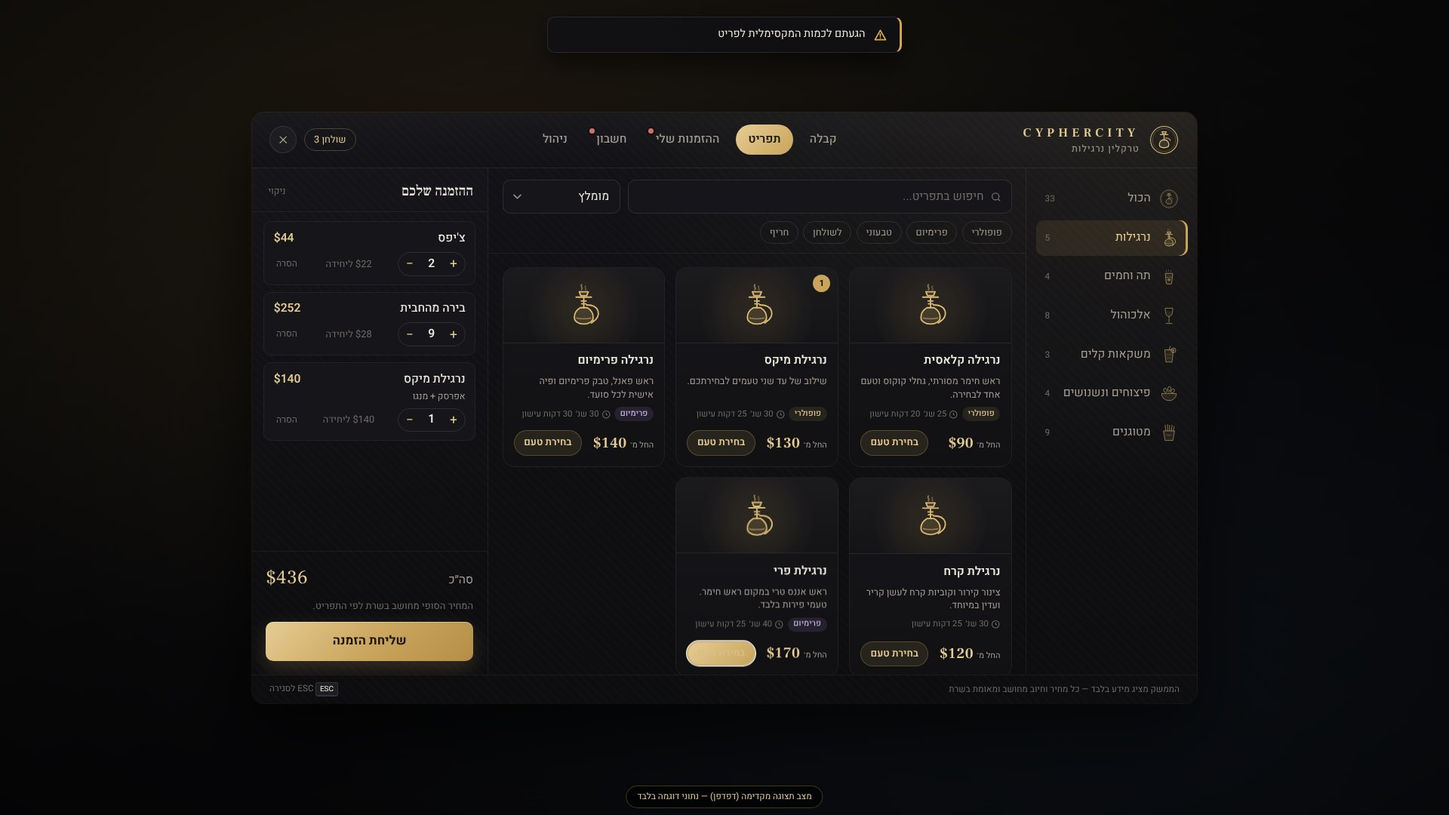
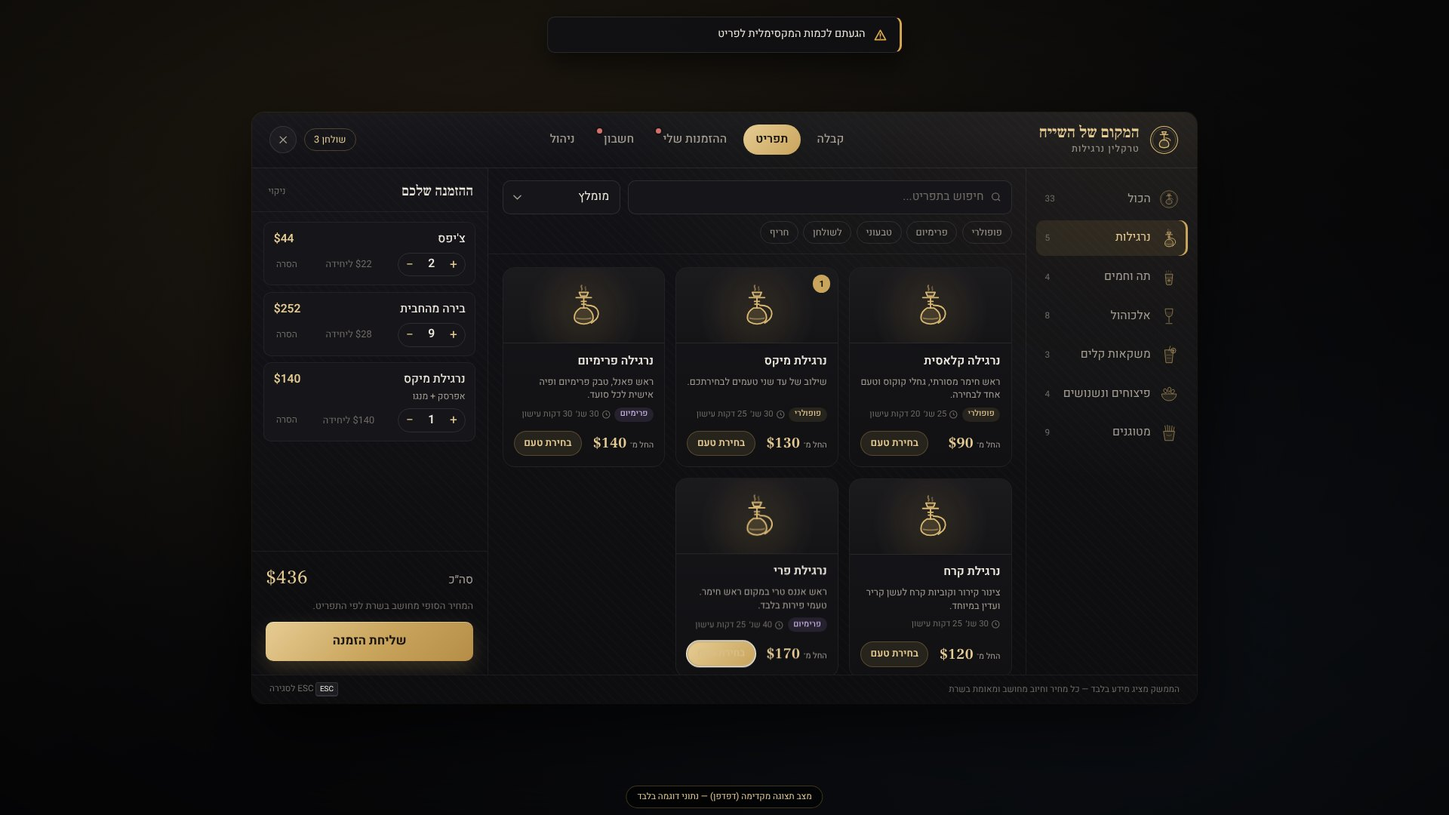
Rename the lounge to "המקום של השייח" (The Sheikh's Place)
- Business name and subtitle come from config.lua (Config.Business.name /
  subtitle) and are shown in the menu header, receipt, window title,
  ox_lib notification title and Discord log username
- Map blip label "The Sheikh's Place" (GTA map text cannot render Hebrew)
- NUI header uses a Hebrew-friendly title style instead of the spaced Latin
  logotype; UI test asserts the configured name is displayed
- READMEs and screenshots updated; technical resource name, events, ACE
  permissions and convars keep the cyphercity-hookah prefix

Claude-Session: https://claude.ai/code/session_01RPJosC7abj2qYpxyJjMoKh

diff --git a/cyphercity-hookah/tests/nui/mock-data.js b/cyphercity-hookah/tests/nui/mock-data.js
@@ -1,2 +1,2 @@
 // Generated by tests/lua/export_catalog.lua from config.lua — sample data for the browser preview.
-window.CCH_MOCK_DATA = {"business":{"hostess":"מאיה","label":"טרקלין הנרגילות של סייפר סיטי","name":"CypherCity Hookah Lounge"},"catalog":{"categories":[{"icon":"hookah.svg","id":"hookah","label":"נרגילות"},{"icon":"tea.svg","id":"tea","label":"תה וחמים"},{"icon":"wine.svg","id":"alcohol","label":"אלכוהול"},{"icon":"lemonade.svg","id":"soft","label":"משקאות קלים"},{"icon":"nuts.svg","id":"snacks","label":"פיצוחים ונשנושים"},{"icon":"fries.svg","id":"fried","label":"מטוגנים"}],"flavors":[{"color":"#b5473a","id":"double_apple","label":"תפוח כפול","price":0},{"color":"#6d4a9c","id":"grape_mint","label":"ענבים ונענע","price":0},{"color":"#c8b843","id":"lemon_mint","label":"לימון נענע","price":0},{"color":"#cf4f6b","id":"watermelon","label":"אבטיח","price":0},{"color":"#4a5f9c","id":"blueberry","label":"אוכמניות","price":5},{"color":"#57a99a","id":"gum_mint","label":"מסטיק נענע","price":5},{"color":"#e0915a","id":"peach","label":"אפרסק","price":5},{"color":"#e3a93b","id":"mango","label":"מנגו","price":5},{"color":"#c2793a","id":"passion","label":"פסיפלורה","price":8},{"color":"#d8c25a","id":"pineapple","label":"אננס","price":8},{"color":"#8c3f5f","id":"forest","label":"פירות יער","price":8},{"color":"#6b4a3a","id":"cola_ice","label":"קולה קרח","price":10}],"products":[{"category":"hookah","description":"ראש חימר מסורתי, גחלי קוקוס וטעם אחד לבחירה.","duration":1200,"id":"hookah_classic","image":"hookah.svg","kind":"hookah","label":"נרגילה קלאסית","maxFlavors":1,"maxQty":2,"prepTime":25,"price":90,"tags":["popular"]},{"category":"hookah","description":"ראש פאנל, טבק פרימיום ופיה אישית לכל סועד.","duration":1800,"id":"hookah_premium","image":"hookah.svg","kind":"hookah","label":"נרגילה פרימיום","maxFlavors":1,"maxQty":2,"prepTime":30,"price":140,"tags":["premium"]},{"category":"hookah","description":"צינור קירור וקוביות קרח לעשן קריר ועדין במיוחד.","duration":1500,"id":"hookah_ice","image":"hookah.svg","kind":"hookah","label":"נרגילת קרח","maxFlavors":1,"maxQty":2,"prepTime":30,"price":120,"tags":{}},{"category":"hookah","description":"שילוב של עד שני טעמים לבחירתכם.","duration":1500,"id":"hookah_mix","image":"hookah.svg","kind":"hookah","label":"נרגילת מיקס","maxFlavors":2,"maxQty":2,"prepTime":30,"price":130,"tags":["popular"]},{"allowedFlavors":["mango","passion","peach","pineapple","watermelon"],"category":"hookah","description":"ראש אננס טרי במקום ראש חימר. טעמי פירות בלבד.","duration":1500,"id":"hookah_fruit","image":"hookah.svg","kind":"hookah","label":"נרגילת פרי","maxFlavors":1,"maxQty":2,"prepTime":40,"price":170,"tags":["premium"]},{"category":"tea","description":"תה שחור עם נענע טרייה, מוגש בכוס זכוכית.","id":"tea_nana","image":"tea.svg","kind":"item","label":"תה נענע","maxQty":10,"prepTime":10,"price":18,"tags":["popular","vegan"]},{"category":"tea","description":"מרווה, לואיזה ולימונית מגינת הבית.","id":"tea_herbal","image":"tea.svg","kind":"item","label":"תה צמחים","maxQty":10,"prepTime":10,"price":20,"tags":["vegan"]},{"category":"tea","description":"קנקן גדול לכל השולחן עם צלוחית סוכר וענפי נענע.","id":"tea_kettle","image":"kettle.svg","kind":"item","label":"קנקן תה לשולחן","maxQty":3,"prepTime":15,"price":45,"tags":["share","vegan"]},{"category":"tea","description":"קפה טורקי עם הל, מבושל על פלטה.","id":"coffee_black","image":"coffee.svg","kind":"item","label":"קפה שחור","maxQty":10,"prepTime":8,"price":15,"tags":["vegan"]},{"category":"alcohol","description":"חצי ליטר לאגר קר.","id":"beer_draft","image":"beer.svg","kind":"item","label":"בירה מהחבית","maxQty":10,"prepTime":5,"price":28,"tags":["popular"]},{"category":"alcohol","description":"בקבוק 330 מ\"ל.","id":"beer_bottle","image":"beer.svg","kind":"item","label":"בירה בבקבוק","maxQty":10,"prepTime":3,"price":24,"tags":{}},{"category":"alcohol","description":"ערק, מיץ אשכוליות סחוט וקרח.","id":"arak_grapefruit","image":"cocktail.svg","kind":"item","label":"ערק אשכוליות","maxQty":10,"prepTime":6,"price":35,"tags":["popular"]},{"category":"alcohol","description":"כוס וויסקי בלנד, נקי או עם קרח.","id":"whiskey","image":"whiskey.svg","kind":"item","label":"וויסקי","maxQty":10,"prepTime":4,"price":48,"tags":["premium"]},{"category":"alcohol","description":"וודקה עם משקה אנרגיה וקרח.","id":"vodka_energy","image":"cocktail.svg","kind":"item","label":"וודקה אנרגיה","maxQty":10,"prepTime":5,"price":45,"tags":{}},{"category":"alcohol","description":"יין אדום יבש מהבית.","id":"wine_red","image":"wine.svg","kind":"item","label":"כוס יין אדום","maxQty":10,"prepTime":3,"price":38,"tags":{}},{"category":"alcohol","description":"ג'ין, פסיפלורה, בזיליקום ולימון.","id":"house_cocktail","image":"cocktail.svg","kind":"item","label":"קוקטייל הבית","maxQty":10,"prepTime":8,"price":52,"tags":["premium"]},{"category":"alcohol","description":"שישה צ'ייסרים לשולחן.","id":"shots_tray","image":"shot.svg","kind":"item","label":"מגש צ'ייסרים","maxQty":3,"prepTime":5,"price":75,"tags":["share"]},{"category":"soft","description":"לימונדה עם נענע וקרח גרוס.","id":"lemonana","image":"lemonade.svg","kind":"item","label":"לימונענע גרוס","maxQty":10,"prepTime":5,"price":18,"tags":["popular","vegan"]},{"category":"soft","description":"פחית 330 מ\"ל.","id":"cola","image":"soda.svg","kind":"item","label":"קולה","maxQty":10,"prepTime":2,"price":12,"tags":["vegan"]},{"category":"soft","description":"בקבוק 500 מ\"ל.","id":"water","image":"water.svg","kind":"item","label":"מים מינרליים","maxQty":10,"prepTime":1,"price":8,"tags":["vegan"]},{"category":"snacks","description":"גרעינים, בוטנים, פיסטוקים ושקדים קלויים.","id":"nuts_mix","image":"nuts.svg","kind":"item","label":"מגש פיצוחים","maxQty":10,"prepTime":4,"price":30,"tags":["share","vegan","popular"]},{"category":"snacks","description":"קערת פיסטוקים קלויים ומלוחים.","id":"pistachio","image":"nuts.svg","kind":"item","label":"פיסטוקים","maxQty":10,"prepTime":3,"price":32,"tags":["vegan"]},{"category":"snacks","description":"תרמילי סויה מאודים עם מלח גס.","id":"edamame","image":"edamame.svg","kind":"item","label":"אדממה","maxQty":10,"prepTime":8,"price":28,"tags":["vegan"]},{"category":"snacks","description":"אדממה מוקפצת בשום, צ'ילי ושמן שומשום.","id":"edamame_spicy","image":"edamame.svg","kind":"item","label":"אדממה חריפה","maxQty":10,"prepTime":10,"price":30,"tags":["vegan","spicy"]},{"category":"fried","description":"צ'יפס פריך עם מלח ים ואיולי.","id":"fries","image":"fries.svg","kind":"item","label":"צ'יפס","maxQty":10,"prepTime":12,"price":22,"tags":["popular","vegan"]},{"category":"fried","description":"בטטה פריכה עם צ'ילי מתוק.","id":"fries_sweet","image":"fries.svg","kind":"item","label":"צ'יפס בטטה","maxQty":10,"prepTime":12,"price":28,"tags":["vegan"]},{"category":"fried","description":"טבעות בצל בבלילת בירה.","id":"onion_rings","image":"onion_rings.svg","kind":"item","label":"טבעות בצל","maxQty":10,"prepTime":12,"price":26,"tags":{}},{"category":"fried","description":"נתחי חזה עוף בציפוי פריך עם רוטב חרדל-דבש.","id":"schnitzelonim","image":"schnitzel.svg","kind":"item","label":"שניצלונים","maxQty":10,"prepTime":15,"price":38,"tags":["popular"]},{"category":"fried","description":"כנפיים פריכות ברוטב ברביקיו מעושן.","id":"wings_bbq","image":"wings.svg","kind":"item","label":"כנפיים ברביקיו","maxQty":10,"prepTime":18,"price":45,"tags":{}},{"category":"fried","description":"כנפיים חריפות ברוטב באפלו ובצד רוטב שמנת.","id":"wings_buffalo","image":"wings.svg","kind":"item","label":"כנפיים באפלו","maxQty":10,"prepTime":18,"price":45,"tags":["spicy"]},{"category":"fried","description":"מוצרלה בציפוי פריך עם רוטב עגבניות.","id":"cheese_sticks","image":"cheese_sticks.svg","kind":"item","label":"מקלות גבינה","maxQty":10,"prepTime":12,"price":32,"tags":{}},{"category":"fried","description":"פרחי כרובית עם טחינה ולימון.","id":"cauliflower","image":"cauliflower.svg","kind":"item","label":"כרובית מטוגנת","maxQty":10,"prepTime":12,"price":28,"tags":["vegan"]},{"category":"fried","description":"צ'יפס, טבעות בצל, שניצלונים ומקלות גבינה — לכל השולחן.","id":"fried_platter","image":"platter.svg","kind":"item","label":"מגש מטוגנים לשולחן","maxQty":3,"prepTime":20,"price":95,"tags":["share","popular"]}]},"currency":{"position":"before","symbol":"$"},"locale":"he","messages":{"insufficient_funds":"אין מספיק כסף במזומן.","order_placed":"ההזמנה #%ID% התקבלה (%TOTAL%).","payment_success":"שולם %TOTAL%. תודה רבה!","table_assigned":"קיבלת את %TABLE%. השולחן שמור לך ל-3:00 — גש ושב."},"settings":{"accounts":[{"id":"cash","label":"מזומן"},{"id":"bank","label":"בנק"}],"allowTableBill":true,"allowWithoutTable":false,"coalRefresh":{"enabled":true,"extendSeconds":600,"maxRefreshes":3,"price":15},"flavorChange":{"enabled":true,"price":20,"refreshDuration":true},"framework":"qbcore","maxItemsPerOrder":25,"maxPartySize":6,"maxQtyPerLine":10,"moneyMode":"money","ordersMode":"hybrid","servicePercent":0,"stockEnabled":false,"tableBillPayer":"owner","timing":"on_bill","tips":[0,10,12,15]},"tables":[{"capacity":4,"id":1,"label":"שולחן 1","members":0,"occupiedSeats":[false,false,false,false],"seated":0,"status":"free","vip":false},{"capacity":4,"id":2,"label":"שולחן 2","members":0,"occupiedSeats":[false,false,false,false],"seated":0,"status":"free","vip":false},{"capacity":4,"id":3,"label":"שולחן 3","members":0,"occupiedSeats":[false,false,false,false],"seated":0,"status":"free","vip":false},{"capacity":4,"id":4,"label":"שולחן 4","members":0,"occupiedSeats":[false,false,false,false],"seated":0,"status":"free","vip":false},{"capacity":4,"id":5,"label":"שולחן 5","members":0,"occupiedSeats":[false,false,false,false],"seated":0,"status":"free","vip":false},{"capacity":6,"id":6,"label":"שולחן VIP","members":0,"occupiedSeats":[false,false,false,false,false,false],"seated":0,"status":"free","vip":true}]};
+window.CCH_MOCK_DATA = {"business":{"hostess":"מאיה","name":"המקום של השייח","subtitle":"טרקלין נרגילות"},"catalog":{"categories":[{"icon":"hookah.svg","id":"hookah","label":"נרגילות"},{"icon":"tea.svg","id":"tea","label":"תה וחמים"},{"icon":"wine.svg","id":"alcohol","label":"אלכוהול"},{"icon":"lemonade.svg","id":"soft","label":"משקאות קלים"},{"icon":"nuts.svg","id":"snacks","label":"פיצוחים ונשנושים"},{"icon":"fries.svg","id":"fried","label":"מטוגנים"}],"flavors":[{"color":"#b5473a","id":"double_apple","label":"תפוח כפול","price":0},{"color":"#6d4a9c","id":"grape_mint","label":"ענבים ונענע","price":0},{"color":"#c8b843","id":"lemon_mint","label":"לימון נענע","price":0},{"color":"#cf4f6b","id":"watermelon","label":"אבטיח","price":0},{"color":"#4a5f9c","id":"blueberry","label":"אוכמניות","price":5},{"color":"#57a99a","id":"gum_mint","label":"מסטיק נענע","price":5},{"color":"#e0915a","id":"peach","label":"אפרסק","price":5},{"color":"#e3a93b","id":"mango","label":"מנגו","price":5},{"color":"#c2793a","id":"passion","label":"פסיפלורה","price":8},{"color":"#d8c25a","id":"pineapple","label":"אננס","price":8},{"color":"#8c3f5f","id":"forest","label":"פירות יער","price":8},{"color":"#6b4a3a","id":"cola_ice","label":"קולה קרח","price":10}],"products":[{"category":"hookah","description":"ראש חימר מסורתי, גחלי קוקוס וטעם אחד לבחירה.","duration":1200,"id":"hookah_classic","image":"hookah.svg","kind":"hookah","label":"נרגילה קלאסית","maxFlavors":1,"maxQty":2,"prepTime":25,"price":90,"tags":["popular"]},{"category":"hookah","description":"ראש פאנל, טבק פרימיום ופיה אישית לכל סועד.","duration":1800,"id":"hookah_premium","image":"hookah.svg","kind":"hookah","label":"נרגילה פרימיום","maxFlavors":1,"maxQty":2,"prepTime":30,"price":140,"tags":["premium"]},{"category":"hookah","description":"צינור קירור וקוביות קרח לעשן קריר ועדין במיוחד.","duration":1500,"id":"hookah_ice","image":"hookah.svg","kind":"hookah","label":"נרגילת קרח","maxFlavors":1,"maxQty":2,"prepTime":30,"price":120,"tags":{}},{"category":"hookah","description":"שילוב של עד שני טעמים לבחירתכם.","duration":1500,"id":"hookah_mix","image":"hookah.svg","kind":"hookah","label":"נרגילת מיקס","maxFlavors":2,"maxQty":2,"prepTime":30,"price":130,"tags":["popular"]},{"allowedFlavors":["mango","passion","peach","pineapple","watermelon"],"category":"hookah","description":"ראש אננס טרי במקום ראש חימר. טעמי פירות בלבד.","duration":1500,"id":"hookah_fruit","image":"hookah.svg","kind":"hookah","label":"נרגילת פרי","maxFlavors":1,"maxQty":2,"prepTime":40,"price":170,"tags":["premium"]},{"category":"tea","description":"תה שחור עם נענע טרייה, מוגש בכוס זכוכית.","id":"tea_nana","image":"tea.svg","kind":"item","label":"תה נענע","maxQty":10,"prepTime":10,"price":18,"tags":["popular","vegan"]},{"category":"tea","description":"מרווה, לואיזה ולימונית מגינת הבית.","id":"tea_herbal","image":"tea.svg","kind":"item","label":"תה צמחים","maxQty":10,"prepTime":10,"price":20,"tags":["vegan"]},{"category":"tea","description":"קנקן גדול לכל השולחן עם צלוחית סוכר וענפי נענע.","id":"tea_kettle","image":"kettle.svg","kind":"item","label":"קנקן תה לשולחן","maxQty":3,"prepTime":15,"price":45,"tags":["share","vegan"]},{"category":"tea","description":"קפה טורקי עם הל, מבושל על פלטה.","id":"coffee_black","image":"coffee.svg","kind":"item","label":"קפה שחור","maxQty":10,"prepTime":8,"price":15,"tags":["vegan"]},{"category":"alcohol","description":"חצי ליטר לאגר קר.","id":"beer_draft","image":"beer.svg","kind":"item","label":"בירה מהחבית","maxQty":10,"prepTime":5,"price":28,"tags":["popular"]},{"category":"alcohol","description":"בקבוק 330 מ\"ל.","id":"beer_bottle","image":"beer.svg","kind":"item","label":"בירה בבקבוק","maxQty":10,"prepTime":3,"price":24,"tags":{}},{"category":"alcohol","description":"ערק, מיץ אשכוליות סחוט וקרח.","id":"arak_grapefruit","image":"cocktail.svg","kind":"item","label":"ערק אשכוליות","maxQty":10,"prepTime":6,"price":35,"tags":["popular"]},{"category":"alcohol","description":"כוס וויסקי בלנד, נקי או עם קרח.","id":"whiskey","image":"whiskey.svg","kind":"item","label":"וויסקי","maxQty":10,"prepTime":4,"price":48,"tags":["premium"]},{"category":"alcohol","description":"וודקה עם משקה אנרגיה וקרח.","id":"vodka_energy","image":"cocktail.svg","kind":"item","label":"וודקה אנרגיה","maxQty":10,"prepTime":5,"price":45,"tags":{}},{"category":"alcohol","description":"יין אדום יבש מהבית.","id":"wine_red","image":"wine.svg","kind":"item","label":"כוס יין אדום","maxQty":10,"prepTime":3,"price":38,"tags":{}},{"category":"alcohol","description":"ג'ין, פסיפלורה, בזיליקום ולימון.","id":"house_cocktail","image":"cocktail.svg","kind":"item","label":"קוקטייל הבית","maxQty":10,"prepTime":8,"price":52,"tags":["premium"]},{"category":"alcohol","description":"שישה צ'ייסרים לשולחן.","id":"shots_tray","image":"shot.svg","kind":"item","label":"מגש צ'ייסרים","maxQty":3,"prepTime":5,"price":75,"tags":["share"]},{"category":"soft","description":"לימונדה עם נענע וקרח גרוס.","id":"lemonana","image":"lemonade.svg","kind":"item","label":"לימונענע גרוס","maxQty":10,"prepTime":5,"price":18,"tags":["popular","vegan"]},{"category":"soft","description":"פחית 330 מ\"ל.","id":"cola","image":"soda.svg","kind":"item","label":"קולה","maxQty":10,"prepTime":2,"price":12,"tags":["vegan"]},{"category":"soft","description":"בקבוק 500 מ\"ל.","id":"water","image":"water.svg","kind":"item","label":"מים מינרליים","maxQty":10,"prepTime":1,"price":8,"tags":["vegan"]},{"category":"snacks","description":"גרעינים, בוטנים, פיסטוקים ושקדים קלויים.","id":"nuts_mix","image":"nuts.svg","kind":"item","label":"מגש פיצוחים","maxQty":10,"prepTime":4,"price":30,"tags":["share","vegan","popular"]},{"category":"snacks","description":"קערת פיסטוקים קלויים ומלוחים.","id":"pistachio","image":"nuts.svg","kind":"item","label":"פיסטוקים","maxQty":10,"prepTime":3,"price":32,"tags":["vegan"]},{"category":"snacks","description":"תרמילי סויה מאודים עם מלח גס.","id":"edamame","image":"edamame.svg","kind":"item","label":"אדממה","maxQty":10,"prepTime":8,"price":28,"tags":["vegan"]},{"category":"snacks","description":"אדממה מוקפצת בשום, צ'ילי ושמן שומשום.","id":"edamame_spicy","image":"edamame.svg","kind":"item","label":"אדממה חריפה","maxQty":10,"prepTime":10,"price":30,"tags":["vegan","spicy"]},{"category":"fried","description":"צ'יפס פריך עם מלח ים ואיולי.","id":"fries","image":"fries.svg","kind":"item","label":"צ'יפס","maxQty":10,"prepTime":12,"price":22,"tags":["popular","vegan"]},{"category":"fried","description":"בטטה פריכה עם צ'ילי מתוק.","id":"fries_sweet","image":"fries.svg","kind":"item","label":"צ'יפס בטטה","maxQty":10,"prepTime":12,"price":28,"tags":["vegan"]},{"category":"fried","description":"טבעות בצל בבלילת בירה.","id":"onion_rings","image":"onion_rings.svg","kind":"item","label":"טבעות בצל","maxQty":10,"prepTime":12,"price":26,"tags":{}},{"category":"fried","description":"נתחי חזה עוף בציפוי פריך עם רוטב חרדל-דבש.","id":"schnitzelonim","image":"schnitzel.svg","kind":"item","label":"שניצלונים","maxQty":10,"prepTime":15,"price":38,"tags":["popular"]},{"category":"fried","description":"כנפיים פריכות ברוטב ברביקיו מעושן.","id":"wings_bbq","image":"wings.svg","kind":"item","label":"כנפיים ברביקיו","maxQty":10,"prepTime":18,"price":45,"tags":{}},{"category":"fried","description":"כנפיים חריפות ברוטב באפלו ובצד רוטב שמנת.","id":"wings_buffalo","image":"wings.svg","kind":"item","label":"כנפיים באפלו","maxQty":10,"prepTime":18,"price":45,"tags":["spicy"]},{"category":"fried","description":"מוצרלה בציפוי פריך עם רוטב עגבניות.","id":"cheese_sticks","image":"cheese_sticks.svg","kind":"item","label":"מקלות גבינה","maxQty":10,"prepTime":12,"price":32,"tags":{}},{"category":"fried","description":"פרחי כרובית עם טחינה ולימון.","id":"cauliflower","image":"cauliflower.svg","kind":"item","label":"כרובית מטוגנת","maxQty":10,"prepTime":12,"price":28,"tags":["vegan"]},{"category":"fried","description":"צ'יפס, טבעות בצל, שניצלונים ומקלות גבינה — לכל השולחן.","id":"fried_platter","image":"platter.svg","kind":"item","label":"מגש מטוגנים לשולחן","maxQty":3,"prepTime":20,"price":95,"tags":["share","popular"]}]},"currency":{"position":"before","symbol":"$"},"locale":"he","messages":{"insufficient_funds":"אין מספיק כסף במזומן.","order_placed":"ההזמנה #%ID% התקבלה (%TOTAL%).","payment_success":"שולם %TOTAL%. תודה רבה!","table_assigned":"קיבלת את %TABLE%. השולחן שמור לך ל-3:00 — גש ושב."},"settings":{"accounts":[{"id":"cash","label":"מזומן"},{"id":"bank","label":"בנק"}],"allowTableBill":true,"allowWithoutTable":false,"coalRefresh":{"enabled":true,"extendSeconds":600,"maxRefreshes":3,"price":15},"flavorChange":{"enabled":true,"price":20,"refreshDuration":true},"framework":"qbcore","maxItemsPerOrder":25,"maxPartySize":6,"maxQtyPerLine":10,"moneyMode":"money","ordersMode":"hybrid","servicePercent":0,"stockEnabled":false,"tableBillPayer":"owner","timing":"on_bill","tips":[0,10,12,15]},"tables":[{"capacity":4,"id":1,"label":"שולחן 1","members":0,"occupiedSeats":[false,false,false,false],"seated":0,"status":"free","vip":false},{"capacity":4,"id":2,"label":"שולחן 2","members":0,"occupiedSeats":[false,false,false,false],"seated":0,"status":"free","vip":false},{"capacity":4,"id":3,"label":"שולחן 3","members":0,"occupiedSeats":[false,false,false,false],"seated":0,"status":"free","vip":false},{"capacity":4,"id":4,"label":"שולחן 4","members":0,"occupiedSeats":[false,false,false,false],"seated":0,"status":"free","vip":false},{"capacity":4,"id":5,"label":"שולחן 5","members":0,"occupiedSeats":[false,false,false,false],"seated":0,"status":"free","vip":false},{"capacity":6,"id":6,"label":"שולחן VIP","members":0,"occupiedSeats":[false,false,false,false,false,false],"seated":0,"status":"free","vip":true}]};

diff --git a/cyphercity-hookah/html/style.css b/cyphercity-hookah/html/style.css
@@ -1,4 +1,4 @@
-/* CypherCity Hookah Lounge — NUI
+/* Hookah lounge NUI
    Dark lounge palette: black, graphite and soft gold. RTL first. Local fonts only. */
 
 @font-face {
@@ -124,13 +124,12 @@ svg { display: block; }
 }
 .brand { display: flex; align-items: center; gap: 0.8rem; min-width: 12rem; }
 .brand-logo { width: 2.6rem; height: 2.6rem; }
-.brand-latin {
+.brand-title {
   font-family: var(--font-display);
-  letter-spacing: 0.32em;
-  font-size: 1.05rem;
+  font-size: 1.35rem;
   font-weight: 600;
+  line-height: 1.15;
   color: var(--gold-2);
-  direction: ltr;
   text-align: start;
 }
 .brand-sub { font-size: 0.8rem; color: var(--muted); letter-spacing: 0.08em; }
@@ -590,7 +589,7 @@ select.input option { background: var(--panel-2); color: var(--text); }
 }
 .receipt-head { text-align: center; margin-bottom: 1rem; }
 .receipt-head img { width: 2.6rem; margin: 0 auto 0.4rem; }
-.receipt-head .r-title { font-family: var(--font-display); letter-spacing: 0.28em; color: var(--gold-2); direction: ltr; }
+.receipt-head .r-title { font-family: var(--font-display); font-size: 1.25rem; font-weight: 600; color: var(--gold-2); }
 .receipt-group { margin: 0.9rem 0; }
 .receipt-group .rg-head { font-size: 0.78rem; color: var(--faint); margin-bottom: 0.35rem; display: flex; justify-content: space-between; }
 .receipt-line { display: flex; align-items: baseline; gap: 0.4rem; font-size: 0.92rem; padding: 0.15rem 0; }

diff --git a/cyphercity-hookah/html/app.js b/cyphercity-hookah/html/app.js
@@ -1,4 +1,4 @@
-/* CypherCity Hookah Lounge — NUI application.
+/* Hookah lounge NUI application (business name and subtitle come from config.lua).
    Vanilla JS, no external libraries. The UI only displays data and sends ids and
    quantities; every price, permission and payment is decided by the server. */
 (function () {
@@ -323,6 +323,10 @@
     S.party = Math.min(2, S.settings.maxPartySize || 6);
     document.querySelectorAll('[data-t]').forEach((el) => { el.textContent = t(el.dataset.t); });
     document.querySelectorAll('[data-t-title]').forEach((el) => { el.title = t(el.dataset.tTitle); });
+    const business = data.business || {};
+    $('#brandTitle').textContent = business.name || '';
+    if (business.subtitle) $('#brandSub').textContent = business.subtitle;
+    if (business.name) document.title = business.name;
     if (S.open) render();
   }
 
@@ -860,7 +864,7 @@
         <div class="receipt">
           <div class="receipt-head">
             <img src="${ICON_PATH}logo.svg" alt="">
-            <div class="r-title">CYPHERCITY</div>
+            <div class="r-title">${esc((S.init && S.init.business && S.init.business.name) || '')}</div>
             <div class="faint small">${esc(bill.tableLabel || '')}</div>
           </div>
           ${groups}

diff --git a/cyphercity-hookah/html/index.html b/cyphercity-hookah/html/index.html
@@ -3,7 +3,7 @@
 <head>
   <meta charset="utf-8">
   <meta name="viewport" content="width=device-width, initial-scale=1">
-  <title>CypherCity Hookah Lounge</title>
+  <title>המקום של השייח</title>
   <link rel="stylesheet" href="style.css">
 </head>
 <body>
@@ -14,8 +14,8 @@
         <div class="brand">
           <img class="brand-logo" src="assets/icons/logo.svg" alt="">
           <div class="brand-text">
-            <div class="brand-latin" id="brandTitle">CYPHERCITY</div>
-            <div class="brand-sub" data-t="brand_sub"></div>
+            <div class="brand-title" id="brandTitle"></div>
+            <div class="brand-sub" id="brandSub" data-t="brand_sub"></div>
           </div>
         </div>
         <nav class="tabs" id="tabs" role="tablist"></nav>

diff --git a/cyphercity-hookah/tests/nui/nui.test.js b/cyphercity-hookah/tests/nui/nui.test.js
@@ -65,6 +65,8 @@ const numberIn = (text) => Number(String(text).replace(/[^\d]/g, ''));
     assert.strictEqual(await page.locator('.category').count(), DATA.catalog.categories.length + 1);
     assert.strictEqual(await page.locator('.product').count(), DATA.catalog.products.length);
     assert.ok((await page.textContent('.tabs')).includes('תפריט'));
+    assert.strictEqual((await page.textContent('#brandTitle')).trim(), DATA.business.name, 'business name from config.lua');
+    assert.strictEqual(await page.title(), DATA.business.name);
     await shot(page, '01-menu');
   });
 

diff --git a/cyphercity-hookah/README.md b/cyphercity-hookah/README.md
@@ -1,8 +1,8 @@
 <div dir="rtl">
 
-# CypherCity Hookah Lounge — `cyphercity-hookah`
+# המקום של השייח — `cyphercity-hookah`
 
-משאב FiveM מלא לעסק נרגילות בשרת CypherCity: מארחת בכניסה, הקצאת שולחנות, מלצרים, נרגילות עם טעמים, תפריט מזון ומשקאות, חשבון ותשלום, פאנל ניהול לעובדים, לוגים ואבטחה בצד השרת. הממשק בעברית מלאה (RTL), בעיצוב כהה עם גווני זהב.
+משאב FiveM מלא לעסק הנרגילות "המקום של השייח" בשרת CypherCity: מארחת בכניסה, הקצאת שולחנות, מלצרים, נרגילות עם טעמים, תפריט מזון ומשקאות, חשבון ותשלום, פאנל ניהול לעובדים, לוגים ואבטחה בצד השרת. הממשק בעברית מלאה (RTL), בעיצוב כהה עם גווני זהב.
 
 > **סטטוס:** הקוד נבדק אוטומטית מחוץ למשחק: 119 בדיקות לוגיקה, 12 בדיקות ממשק בדפדפן, בדיקות הצלבה ובדיקה של כל ה-natives מול התיעוד הרשמי (פירוט ב-`tests/README.md`).
 > **הוא לא נבדק בתוך שרת FiveM חי**, כי לא הייתה לי גישה לשרת שלכם. לפני העלאה לשרת הייצור צריך להריץ אותו בשרת בדיקה ולעבור על רשימת הבדיקות בהמשך.
@@ -195,7 +195,9 @@ add_ace group.admin cyphercity.hookah.admin allow
 
 ## מחירים, קטגוריות, נרגילות וטעמים
 
-הכול נמצא ב-`config.lua`:
+**שם העסק:** `Config.Business.name` (ברירת מחדל: `'המקום של השייח'`) מופיע בכותרת התפריט, בקבלה ובכותרת ההתראות. `Config.Business.subtitle` (ברירת מחדל: `'טרקלין נרגילות'`) מופיע מתחתיו. השם במפה נמצא ב-`Config.Blip.label`, והוא באנגלית כי המפה של GTA לא מציגה עברית.
+
+שאר ההגדרות נמצאות ב-`config.lua`:
 
 * **`Config.Categories`** — הקטגוריות, לפי סדר ההצגה.
 * **`Config.Menu`** — פריטי המזון והמשקה. לכל פריט:

diff --git a/README.md b/README.md
@@ -1,8 +1,8 @@
 <div dir="rtl">
 
-# CypherCity — Hookah Lounge
+# המקום של השייח — טרקלין נרגילות
 
-משאב FiveM לעסק הנרגילות של שרת CypherCity.
+משאב FiveM לעסק הנרגילות "המקום של השייח" בשרת CypherCity.
 
 * **המשאב עצמו:** התיקייה [`cyphercity-hookah`](cyphercity-hookah). מעתיקים אותה לתיקיית ה-resources בשרת.
 * **הוראות התקנה והגדרה (עברית):** [`cyphercity-hookah/README.md`](cyphercity-hookah/README.md)
